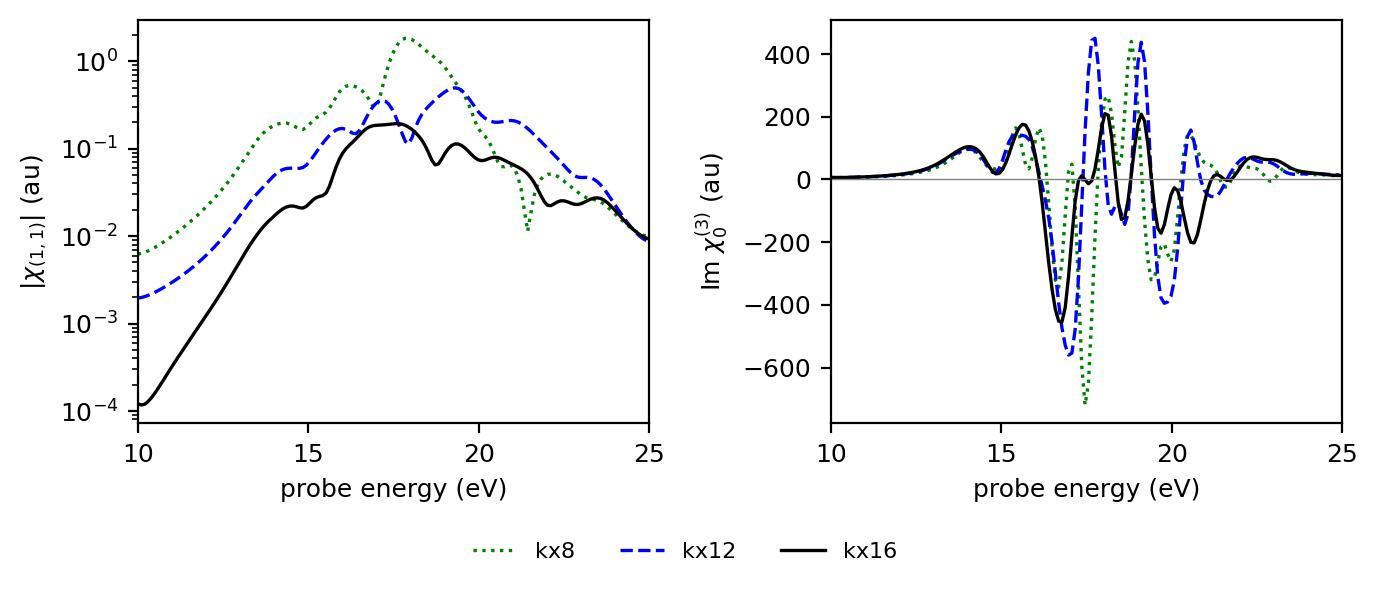
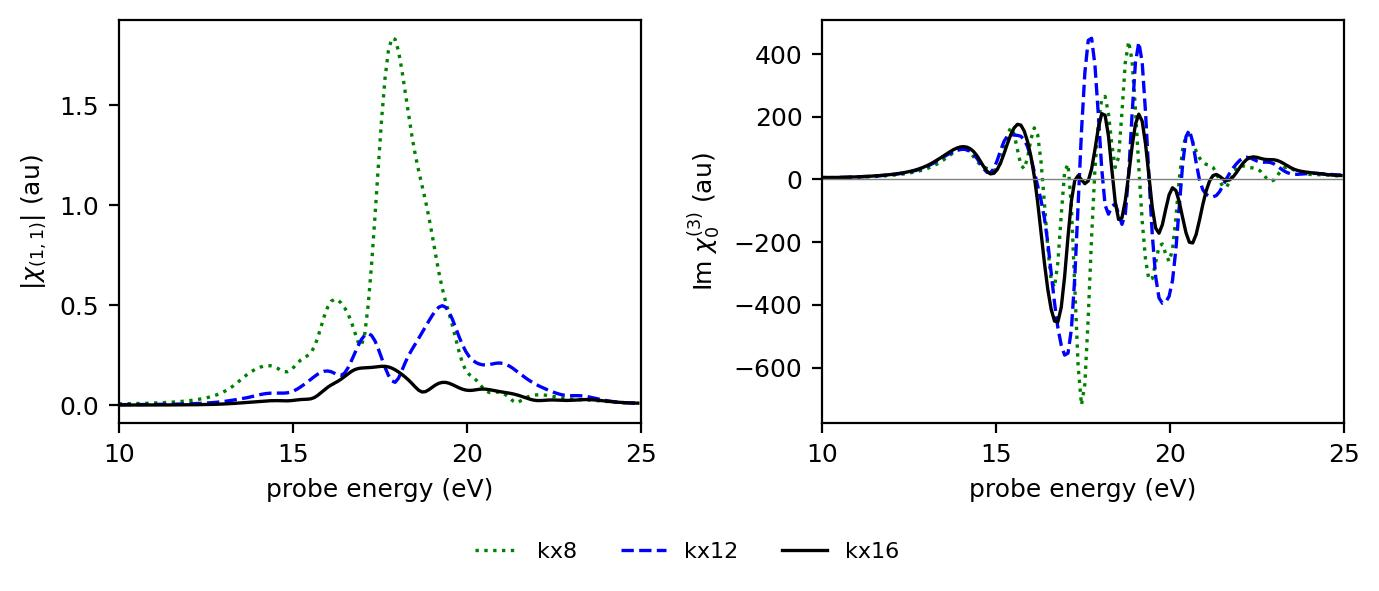
Add the pump intensity dependence of the chi to the notes
Notes/main.tex, Sec. 3.2: 3.2.1 renamed "Convergence with the k-grid"
(left panel of Fig. 3 in linear scale), new 3.2.2 with chi_0 extracted
on kx12 with the pump 1e6, 4e6 and 1.6e7 kW/cm^2: changes of 0.2% and
1% with ratio ~5, the fifth order terms projected on chi_0.
make_figures.py: figure chi_pump, data folder from LIF_NL_CHI if set.
.gitignore: __pycache__.

diff --git a/Notes/make_figures.py b/Notes/make_figures.py
@@ -20,7 +20,7 @@ from mppi import Optics as O
 from mppi.Utilities import Constants as Const
 
 HERE = os.path.dirname(os.path.abspath(__file__))
-NL_CHI = os.path.join(HERE, '..', 'NL_Chi')
+NL_CHI = os.environ.get('LIF_NL_CHI', os.path.join(HERE, '..', 'NL_Chi'))   # data folder (env variable for tests)
 RT_DIR = os.path.join(NL_CHI, 'kx16_nb100_NoTr_E100')    # RT pump-probe runs (YamboNL_Analysis.ipynb)
 T_PROBES = [13.0, 14.5, 16.0, 17.5, 19.0]                  # probe times of the RT runs (fs)
 
@@ -169,7 +169,7 @@ def fig_chi_kgrid(out, erange=(10, 25)):
     fig, axes = plt.subplots(1, 2, figsize=(7, 2.7))
     for g in GRIDS:
         c, ls = style[g]
-        axes[0].semilogy(f[s], np.abs(r[g + '_1_1'][s]), color=c, ls=ls, lw=1.2, label=g)
+        axes[0].plot(f[s], np.abs(r[g + '_1_1'][s]), color=c, ls=ls, lw=1.2, label=g)
         axes[1].plot(f[s], chi0[g][s].imag, color=c, ls=ls, lw=1.2, label=g)
     axes[0].set_ylabel(r'$|\chi_{(1,1)}|$ (au)')
     axes[1].set_ylabel(r'Im $\chi^{(3)}_0$ (au)')
@@ -197,7 +197,86 @@ def fig_chi_kgrid(out, erange=(10, 25)):
                   np.abs(chi0[g][sel]).max() / np.abs(chi0['kx16'][sel]).max()))
 
 
-FIGURES = {'rt_setup': fig_rt_setup, 'rt_even_odd': fig_rt_even_odd, 'chi_kgrid': fig_chi_kgrid}
+NAMES_PUMP_KX12 = {1e6: NAME_PP,
+                   4e6: 'Pp-Ep_1e3-EP_4e6-PE_1.55-nlenrange_10.0-25.016-nlensteps_155-bands_3-6-damp_0.3-sin-nltime_100',
+                   1.6e7: 'Pp-Ep_1e3-EP_1.6e7-PE_1.55-nlenrange_10.0-25.113-nlensteps_39-bands_3-6-damp_0.3-sin-nltime_100'}
+
+
+def chi_pumps_kx12(out):
+    """
+    Third order terms extracted from the kx12 P&p runs with the pump intensities 1e6, 4e6 and 1.6e7 kW/cm^2 (no a
+    posteriori broadening: the 1.6e7 run has only 39 frequencies). Cached in out/chi_pumps_kx12.npz.
+    """
+    cache = os.path.join(out, 'chi_pumps_kx12.npz')
+    if os.path.exists(cache):
+        return dict(np.load(cache))
+    folder = os.path.join(NL_CHI, GRIDS['kx12'])
+    d_sine = P.YamboNLDBParser(os.path.join(folder, NAME_SINE, 'ndb.Nonlinear'), verbose=False)
+    sf = O.Xn_single_frequency(d_sine, X_order=3, verbose=False)
+    chi1, f1 = sf.compute_Xn()[0][1], sf.fields_freqs * Const.HaToeV
+    res = {}
+    for I, name in NAMES_PUMP_KX12.items():
+        d = P.YamboNLDBParser(os.path.join(folder, name, 'ndb.Nonlinear'), verbose=False)
+        fm = O.Xn_frequency_mixing(d, X_order=(1, 2), verbose=False)
+        mix = fm.compute_Xn()[0]
+        f = fm.probe_freqs * Const.HaToeV
+        idx = np.array([np.argmin(np.abs(f1 - x)) for x in f])
+        assert np.allclose(f1[idx], f, atol=1e-6)
+        EP = d.Efield2[0]['amplitude']
+        tag = '%.1e' % I
+        res[tag + '_freqs'] = f
+        res[tag + '_chi0'] = (mix[(1, 0)] - chi1[idx]) / (EP**2 / 4)
+        res[tag + '_chip'] = mix[(1, 2)]
+        res[tag + '_chim'] = mix[(1, -2)]
+        print('chi_pumps_kx12: pump %.1e done (E0P %.3e au, %d frequencies)' % (I, EP, len(f)), flush=True)
+    np.savez(cache, **res)
+    return res
+
+
+def fig_chi_pump(out, erange=(10, 25)):
+    """
+    Third order term chi_0 extracted with different pump intensities (kx12, damping 0.3 eV) and its change w.r.t. the
+    lowest intensity: the fifth order terms, projected on chi_0, change it proportionally to the intensity.
+    """
+    r = chi_pumps_kx12(out)
+    ref, f = r['1.0e+06_chi0'], r['1.0e+06_freqs']
+    w = (f >= 10) & (f <= 20)
+    norm = np.abs(ref[w]).max()
+    style = {'1.0e+06': ('k', '-', None), '4.0e+06': ('b', '--', None), '1.6e+07': ('r', 'none', 'o')}
+    label = {'1.0e+06': r'$10^6$', '4.0e+06': r'$4\cdot10^6$', '1.6e+07': r'$1.6\cdot10^7$'}
+
+    fig, axes = plt.subplots(1, 2, figsize=(7, 2.7))
+    for tag, (c, ls, m) in style.items():
+        x, y = r[tag + '_freqs'], r[tag + '_chi0']
+        s = (x >= erange[0]) & (x <= erange[1])
+        axes[0].plot(x[s], y[s].imag, color=c, ls=ls, marker=m, ms=3, lw=1.2, label=label[tag] + ' kW/cm$^2$')
+        if tag != '1.0e+06':
+            idx = np.array([np.argmin(np.abs(f - xx)) for xx in x])
+            d = 100 * np.abs(y - ref[idx]) / norm
+            axes[1].plot(x[s], d[s], color=c, ls='-' if m else ls, marker=m, ms=3, lw=1)
+            ww = (x >= 10) & (x <= 20)
+            rel = np.abs(y - ref[idx]) / np.abs(ref[idx])
+            print('chi_pump: %s, chi_0 change w.r.t. 1e6 in 10-20 eV: mean %.2f%% of the max, median relative %.2f%%'
+                  % (tag, d[ww].mean(), 100 * np.median(rel[ww])))
+            for key in ['chip', 'chim']:
+                rk = np.abs(r[tag + '_' + key] - r['1.0e+06_' + key][idx]) / np.abs(r['1.0e+06_' + key][idx])
+                print('          %s: median relative change %.2f%%' % (key, 100 * np.median(rk[ww])))
+    axes[0].set_ylabel(r'Im $\chi^{(3)}_0$ (au)')
+    axes[0].axhline(0, color='gray', lw=0.5)
+    axes[1].set_ylabel(r'$|\chi^{(3)}_0-\chi^{(3)}_0(10^6)|$ (% of the max)')
+    for ax in axes:
+        ax.set_xlabel('probe energy (eV)')
+        ax.set_xlim(erange)
+        ax.set_xticks(np.arange(erange[0], erange[1] + 0.1, 5))
+    fig.tight_layout()
+    fig.legend(*axes[0].get_legend_handles_labels(), loc='upper center', bbox_to_anchor=(0.5, 0.02), ncol=3,
+               frameon=False)
+    fig.savefig(os.path.join(out, 'chi_pump.jpeg'))
+    plt.close(fig)
+
+
+FIGURES = {'rt_setup': fig_rt_setup, 'rt_even_odd': fig_rt_even_odd, 'chi_kgrid': fig_chi_kgrid,
+           'chi_pump': fig_chi_pump}
 
 if __name__ == '__main__':
     parser = argparse.ArgumentParser(description='Figures of the technical notes on LiF')

diff --git a/Notes/main.tex b/Notes/main.tex
@@ -540,8 +540,8 @@ the key $(1,m)$ computed at the probe frequency $\omega-m\wP$ gives the output a
 probe grid divides $\wP$ these frequencies are on the grid. $\chiz$ is the difference of two runs, which have the same
 parameters.
 
-\subsubsection{Results for the susceptibilities}
-\label{sec:lif_chi_results}
+\subsubsection{Convergence with the k-grid}
+\label{sec:lif_chi_kgrid}
 
 Fig.~\ref{fig:chi_kgrid} shows the dependence of the susceptibilities on the k grid, with the grids kx8, kx12 and kx16.
 The second order key $\chin{1}{1}$, which should vanish, decreases by a factor $\sim3$ at each refinement of the grid
@@ -555,9 +555,33 @@ simulations; the residual dependence on the grid above 16~eV is a limit of the c
 \centering
 \includegraphics[width=\textwidth]{Figures/chi_kgrid.jpeg}
 \caption{Dependence on the k grid of the susceptibilities extracted from the simulations with monochromatic fields
-(total broadening 0.6~eV). Left: modulus of the spurious second order key $\chin{1}{1}$ (logarithmic scale). Right:
-imaginary part of the third order term $\chiz$.}
+(total broadening 0.6~eV). Left: modulus of the spurious second order key $\chin{1}{1}$. Right: imaginary part of the
+third order term $\chiz$.}
 \label{fig:chi_kgrid}
+\end{figure}
+
+\subsubsection{Convergence with respect to the pump intensity}
+\label{sec:lif_chi_pump}
+
+The extracted $\chi$ are the third order response only if the pump is weak enough. The key $(1,0)$ contains, besides
+$\chiz|\EP(\wP)|^2$, terms of fifth order proportional to $|\EP(\wP)|^4$, which after the division by $|\EP(\wP)|^2$ in
+Eq.~\eqref{eq:chi_from_keys} appear in the extracted $\chiz$ with a weight proportional to the pump intensity (and
+similarly for $\chi^{(3)}_\pm$). Fig.~\ref{fig:chi_pump} compares the $\chiz$ extracted on the kx12 grid with the pump
+intensities $10^6$, $4\cdot10^6$ and $1.6\cdot10^7$~kW/cm$^2$ (pump amplitudes $\EOP$, $2\EOP$ and $4\EOP$). The three
+curves are indistinguishable on the scale of $\chiz$. The differences with respect to $10^6$~kW/cm$^2$ are 0.2\%
+($4\cdot10^6$) and 1\% ($1.6\cdot10^7$) of $\chiz$ (median in 10-20~eV), concentrated in the resonant region above
+16~eV. Their ratio, $\sim5$, is the one expected for a term proportional to the intensity, $(16-1)/(4-1) = 5$: the fifth
+order terms are projected on $\chiz$. The same holds for $\chi^{(3)}_\pm$. The pump of our runs, $10^6$~kW/cm$^2$, is
+safely in the third order regime, and intensities up to $4\cdot10^6$~kW/cm$^2$ give the same $\chi$ with a larger
+signal.
+
+\begin{figure}[h!]
+\centering
+\includegraphics[width=\textwidth]{Figures/chi_pump.jpeg}
+\caption{Third order term $\chiz$ extracted on the kx12 grid with three pump intensities (damping 0.3~eV, no a
+posteriori broadening). Left: imaginary part (the run at $1.6\cdot10^7$~kW/cm$^2$ has only 39 probe frequencies,
+dots). Right: difference with respect to the $\chiz$ extracted at $10^6$~kW/cm$^2$, in percent of its maximum.}
+\label{fig:chi_pump}
 \end{figure}
 
 \subsection{Transient absorption from the $\chi$ and comparison with the RT results}
